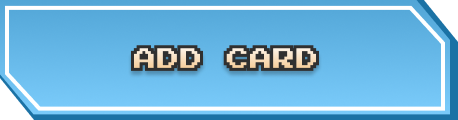
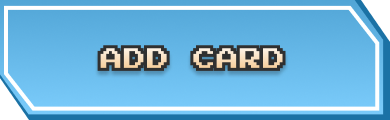
make nav smaller

diff --git a/client/src/app/components/navbar.tsx b/client/src/app/components/navbar.tsx
@@ -32,31 +32,16 @@ export default function Navbar() {
 
         <div className="flex justify-evenly font-bold">
           <a href="/dashboard">
-            <Image src={dashboard} alt="Dashboard" width={240} height={40} className="hover:opacity-80 px-1" />
+            <Image src={dashboard} alt="Dashboard" width={200} height={40} className="hover:opacity-80 px-2 drop-shadow" />
           </a>
           <a href="/add-card">
-            <Image src={addCard} alt="Add Card" width={240} height={40} className="hover:opacity-80 px-1" />
+            <Image src={addCard} alt="Add Card" width={200} height={40} className="hover:opacity-80 px-2 drop-shadow" />
           </a>
           <a href="/gift-request">
-            <Image src={giftRequest} alt="Gift & Request" width={240} height={40} className="hover:opacity-80 px-1" />
+            <Image src={giftRequest} alt="Gift & Request" width={200} height={40} className="hover:opacity-80 px-2 drop-shadow" />
           </a>
-          {/* <a href="/profile" className="hover:text-gray-300">PROFILE</a> */}
-          {/* Right: UID Display */}
-          {/* <a href="/transactions" 
-            className="text-xs font-mono px-4 py-1 ml-4
-            text-black drop-shadow text-center flex items-center hover:opacity-60"
-            style={{
-              backgroundImage: `url(${nameBg.src})`,
-              backgroundSize: "100% 100%",
-              width:"240", height:"40",
-            }}
-          >
-            <div>
-                Transactions
-              </div>
-            </a> */}
           <a href="/transactions">
-            <Image src={trans} alt="Trans" width={240} height={40} className="hover:opacity-80 px-1" />
+            <Image src={trans} alt="Trans" width={200} height={40} className="hover:opacity-80 px-2 drop-shadow" />
           </a>
           {name && (
             <a className="text-xs font-mono px-4 py-1 ml-4 hover:opacity-80 
@@ -77,7 +62,7 @@ export default function Navbar() {
             className=""
           >
             {/* Logout */}
-            <Image src={logout} alt="Logout" width={110} height={40} className="hover:opacity-80 px-2 top-0" />
+            <Image src={logout} alt="Logout" width={110} height={40} className="hover:opacity-80 px-2 top-0 drop-shadow" />
           </button>
         </div>
       </div>
